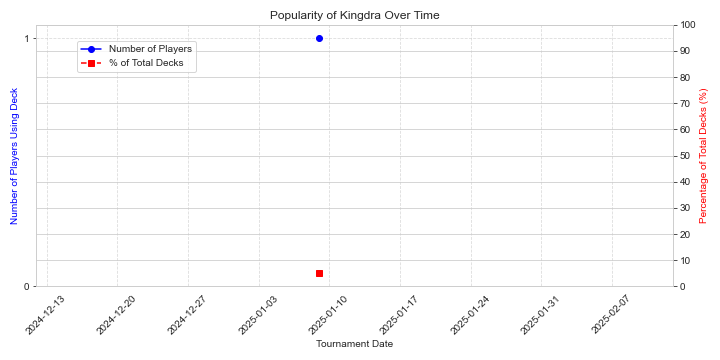
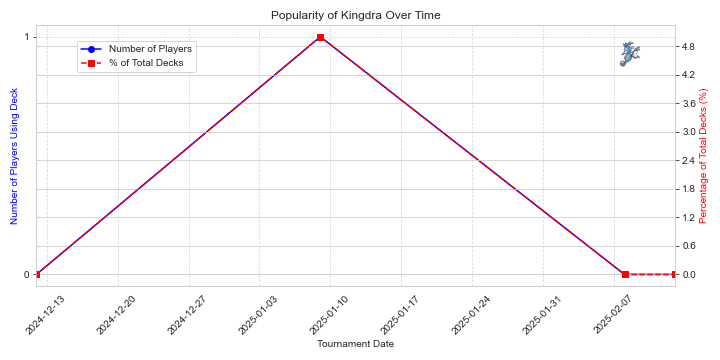
flask app?

diff --git a/templates/decklist.html b/templates/decklist.html
@@ -1,0 +1,77 @@
+<!DOCTYPE html>
+<html lang="en">
+<head>
+    <meta charset="UTF-8">
+    <meta name="viewport" content="width=device-width, initial-scale=1.0">
+    <title>{{ player }}'s Decklist - {{ date }}</title>
+    <style>
+        body {
+            font-family: Arial, sans-serif;
+            margin: 20px;
+            padding: 0;
+            background-color: #f4f4f4;
+            text-align: center;
+        }
+        h1 {
+            color: #333;
+        }
+        table {
+            width: 80%;
+            margin: 20px auto;
+            border-collapse: collapse;
+            background: white;
+            box-shadow: 0px 4px 8px rgba(0, 0, 0, 0.2);
+        }
+        th, td {
+            padding: 10px;
+            border: 1px solid #ddd;
+            text-align: center;
+        }
+        th {
+            background: #333;
+            color: white;
+        }
+        img {
+            max-width: 100px;
+            height: auto;
+            transition: transform 0.3s ease-in-out;
+        }
+        img:hover {
+            transform: scale(2);
+            z-index: 10;
+        }
+    </style>
+</head>
+<body>
+
+    <h1>{{ player }}'s Decklist - {{ date }}</h1>
+
+    <table>
+        <thead>
+            <tr>
+                <th>Card Name</th>
+                <th>Quantity</th>
+                <th>Card Type</th>
+                <th>Set Code</th>
+                <th>Set Number</th>
+                <th>Image</th>
+            </tr>
+        </thead>
+        <tbody>
+            {% for row in decklist.itertuples() %}
+            <tr>
+                <td>{{ row[1] }}</td>  <!-- Card Name -->
+                <td>{{ row[2] }}</td>  <!-- Quantity -->
+                <td>{{ row[3] }}</td>  <!-- Card Type -->
+                <td>{{ row[4] }}</td>  <!-- Set Code -->
+                <td>{{ row[5] }}</td>  <!-- Set Number -->
+                <td>
+                    <img src="{{ row[6] }}" alt="Card Image">
+                </td>
+            </tr>
+            {% endfor %}  <!-- ✅ Ensure this is present! -->
+        </tbody>
+    </table>
+
+</body>
+</html>

diff --git a/templates/tournament.html b/templates/tournament.html
@@ -1,0 +1,16 @@
+<!-- templates/tournament.html -->
+<!DOCTYPE html>
+<html>
+<head>
+    <title>{{ date }} Tournament</title>
+</head>
+<body>
+    <h1>Players in {{ date }} Tournament</h1>
+    <ul>
+        {% for player in players %}
+        <li><a href="/tournament/{{ date }}/{{ player }}">{{ player }}</a></li>
+        {% endfor %}
+    </ul>
+    <a href="/">Back to tournaments</a>
+</body>
+</html>

diff --git a/templates/index.html b/templates/index.html
@@ -1,0 +1,16 @@
+<!-- templates/index.html -->
+<!DOCTYPE html>
+<html>
+<head>
+    <title>Tournaments</title>
+</head>
+<body>
+    <h1>Available Tournaments</h1>
+    <ul>
+        {% for tournament in tournaments %}
+        <li><a href="/tournament/{{ tournament }}">{{ tournament }}</a></li>
+        {% endfor %}
+    </ul>
+</body>
+</html>
+

diff --git a/JG_analysis.py b/JG_analysis.py
@@ -11,9 +11,55 @@ import matplotlib.pyplot as plt
 import seaborn as sns
 import pandas as pd
 import matplotlib.dates as mdates
+import pokebase as pb
+import requests
+from PIL import Image
+from io import BytesIO
+import matplotlib.ticker as mticker
+import pokemontcgsdk
+from pokemontcgsdk import RestClient
+from pokemontcgsdk import Card
+from pokemontcgsdk import Set
+RestClient.configure('3c23674e-0a0e-4a9d-8191-43fcbd09f2f4')
+
+#%%
+
+
+
+
+def make_transparent(image):
+    """Convert black background to transparent."""
+    image = image.convert("RGBA")  # Ensure it's RGBA format
+    data = image.getdata()
+
+    new_data = []
+    for item in data:
+        # If pixel is black (or close to black), make it transparent
+        if item[:3] == (0, 0, 0):
+            new_data.append((0, 0, 0, 0))  # Fully transparent
+        else:
+            new_data.append(item)  # Keep original color
+
+    image.putdata(new_data)
+    return image
+
+
+def get_pokemon_icon(name):
+    pokemon = pb.pokemon(name.lower())
+    return pokemon.sprites.front_default  # Default front sprite URL
+
 
 
 #%% Load Results
+deck_alternatives = {
+    "lost box": "comfey",
+    "pidgeot control": "pidgeot",
+    "terapazard": "terapagos",
+    "united wings": "flamigo",
+    "dragathorns": "dragapult",
+}
+
+
 current_directory = os.getcwd()
 results_directory = os.path.join(current_directory, 'results')
 
@@ -169,8 +215,8 @@ else:
     
     
     
-#%% decklists over time
-# Count number of times each deck type was played at each tournament
+#%%
+
 # Ensure 'Date' is in datetime format
 complete_standings['Date'] = pd.to_datetime(complete_standings['Date'])
 
@@ -178,18 +224,33 @@ complete_standings['Date'] = pd.to_datetime(complete_standings['Date'])
 min_date = complete_standings['Date'].min()
 max_date = complete_standings['Date'].max()
 
+# Generate all unique deck names and tournament dates
+all_decks = complete_standings['Deck'].unique()
+all_dates = complete_standings['Date'].unique()
+
+# Create a DataFrame with all combinations of dates and decks
+all_combinations = pd.MultiIndex.from_product([all_dates, all_decks], names=['Date', 'Deck']).to_frame(index=False)
+
 # Count number of times each deck type was played at each tournament
 deck_trends = complete_standings.groupby(['Date', 'Deck']).size().reset_index(name='Count')
 
+# Merge with the full range of dates and decks, filling missing values with 0
+deck_trends = all_combinations.merge(deck_trends, on=['Date', 'Deck'], how='left').fillna({'Count': 0})
+
+# Ensure 'Count' is in integer format
+deck_trends['Count'] = deck_trends['Count'].astype(int)
+
+# Calculate total decks per tournament
 total_decks_per_tournament = complete_standings.groupby('Date').size().reset_index(name='Total Decks')
-deck_trends = deck_trends.merge(total_decks_per_tournament, on='Date', how='left')
+deck_trends = deck_trends.merge(total_decks_per_tournament, on='Date', how='left').fillna({'Total Decks': 0})
 deck_trends['Percentage'] = (deck_trends['Count'] / deck_trends['Total Decks']) * 100
+deck_trends['Percentage'].fillna(0, inplace=True)
 
 # Set plot style
 sns.set_style("whitegrid")
 
 # Loop through each deck and create a separate graph
-for deck in deck_trends['Deck'].unique():
+for deck in all_decks:
     deck_data = deck_trends[deck_trends['Deck'] == deck]
     
     fig, ax1 = plt.subplots(figsize=(10, 5))
@@ -202,13 +263,14 @@ for deck in deck_trends['Deck'].unique():
     ax1.set_ylabel("Number of Players Using Deck", color='b')
     ax2.set_ylabel("Percentage of Total Decks (%)", color='r')
     
-    ax1.set_yticks(range(0, max(deck_data['Count']) + 1))  # Ensure only integer values on primary y-axis
-    ax2.set_yticks(range(0, 101, 10))  # Ensure percentage scale from 0 to 100 with steps of 10
-    
-    ax1.set_xlim(min_date, max_date)  # Set x-axis limits to dataset-wide min and max dates
-    ax1.xaxis.set_major_locator(mdates.DayLocator(interval=7))  # Ensure uniform x-axis grid lines every 7 days
+    ax1.set_xlim(min_date, max_date)
+    ax1.xaxis.set_major_locator(mdates.DayLocator(interval=7))
     ax1.xaxis.set_major_formatter(mdates.DateFormatter('%Y-%m-%d'))
     ax1.tick_params(axis='x', rotation=45)
+    
+    # Ensure only integer values on primary y-axis
+    ax1.yaxis.set_major_locator(mticker.MaxNLocator(integer=True))
+    ax2.yaxis.set_major_locator(mticker.MaxNLocator(nbins=10))  # Allow slight difference in scaling
     
     plt.title(f"Popularity of {deck} Over Time")
     ax1.grid(True, linestyle='--', alpha=0.7)
@@ -218,9 +280,32 @@ for deck in deck_trends['Deck'].unique():
     graph_directory = os.path.join(current_directory, "graph")
     
     if not os.path.exists(graph_directory):
-        print("Graph directory does not exist. Creating it now...")
-        os.makedirs(graph_directory, exist_ok=True)  # Create if it doesn’t exist
+        os.makedirs(graph_directory, exist_ok=True)
     
-    # Save each plot to a file
-    plt.savefig(os.path.join(current_directory, 'graph',f"deck_popularity_{deck.replace(' ', '_')}.png"))
+    # Try fetching deck icon
+    icon_url = None
+    try:
+        icon_url = get_pokemon_icon(deck.lower().replace(' ', '-'))
+        response = requests.get(icon_url)
+        response.raise_for_status()
+    except Exception:
+        if deck.lower() in deck_alternatives:
+            try:
+                alternative_pokemon = deck_alternatives[deck.lower()]
+                icon_url = get_pokemon_icon(alternative_pokemon)
+                response = requests.get(icon_url)
+                response.raise_for_status()
+            except Exception:
+                icon_url = None
+        else:
+            icon_url = None
+    
+    if icon_url:
+        icon = Image.open(BytesIO(response.content))
+        icon = make_transparent(icon)
+        newax = fig.add_axes([0.85, 0.8, 0.1, 0.1], anchor='NW', zorder=1)
+        newax.imshow(icon)
+        newax.axis("off")
+    
+    plt.savefig(os.path.join(graph_directory, f"deck_popularity_{deck.replace(' ', '_')}.png"))
     plt.show()

diff --git a/app.py b/app.py
@@ -1,0 +1,112 @@
+# -*- coding: utf-8 -*-
+"""
+
+
+@author: jemma
+"""
+
+from flask import Flask, render_template, send_file
+import os
+import pandas as pd
+import re
+import logging
+from pokemontcgsdk import RestClient
+from pokemontcgsdk import Card
+import sys
+from concurrent.futures import ThreadPoolExecutor
+RestClient.configure('3c23674e-0a0e-4a9d-8191-43fcbd09f2f4')
+
+
+
+app = Flask(__name__)
+current_directory = os.getcwd()
+logging.basicConfig(level=logging.DEBUG)
+sys.stdout = sys.__stdout__  # Ensures direct console printing
+
+@app.route('/')
+def index():
+    results_path = os.path.join(current_directory, 'results')
+
+    # Regular expression pattern for YYYY-MM-DD format
+    date_pattern = re.compile(r"^\d{4}-\d{2}-\d{2}$")
+    
+    # Get sorted list of directories/files
+    tournaments = sorted(      
+    d for d in os.listdir(results_path)
+        if date_pattern.match(d) and os.path.isdir(os.path.join(results_path, d))
+        )
+    
+    return render_template('index.html', tournaments=tournaments)
+
+@app.route('/tournament/<date>')
+def tournament(date):
+    decklist_dir = os.path.join(current_directory, 'results', date, 'decklists')
+    players = [f[:-4] for f in os.listdir(decklist_dir) if f.endswith('.csv')]
+    return render_template('tournament.html', date=date, players=players)
+
+
+def fetch_card_image(index, row):
+    """Fetches the image URL for a given card row."""
+    ptcgo_code = row['Set Code']
+    card_number = row['Set Number']
+    card_name = row["Card Name"].replace(' - ACESPEC', '')
+
+    print(f"Details: {card_name}, {ptcgo_code} - {card_number}", flush=True)
+
+    try:
+        cards = Card.where(q=f'set.ptcgoCode:{ptcgo_code} number:{int(card_number)}')
+
+        if cards:
+            return index, cards[0].images.small  # Return the index and URL
+
+        print(f"Querying: name: {card_name}", flush=True)
+
+        # Search by name for common and uncommon rarities
+        common_cards = Card.where(q=f'name:"{card_name}" rarity:"Common"', orderBy='-set.releaseDate')
+        uncommon_cards = Card.where(q=f'name:"{card_name}" rarity:"Uncommon"', orderBy='-set.releaseDate')
+        if len(common_cards)==0 and len(uncommon_cards)==0:
+            rare_cards = Card.where(q=f'name:"{card_name}" rarity:"Rare"', orderBy='-set.releaseDate')
+            all_cards = list(common_cards) + list(uncommon_cards) + list(rare_cards)
+        else:
+            all_cards = list(common_cards) + list(uncommon_cards)
+        all_cards.sort(key=lambda card: card.set.releaseDate, reverse=True)
+
+        if all_cards:
+            return index, all_cards[0].images.small  # Return first result
+
+        print(f"No results found for: {card_name}")
+    except Exception as e:
+        print(f"Error fetching card image for {card_name}: {e}")
+
+    # Default image if no match found
+    return index, "https://media.istockphoto.com/id/1443562748/photo/cute-ginger-cat.jpg?s=612x612&w=0&k=20&c=vvM97wWz-hMj7DLzfpYRmY2VswTqcFEKkC437hxm3Cg="
+
+
+def process_decklist(df):
+    """Processes the decklist concurrently to fetch images."""
+    df['Image URL'] = None  # Default column for image URLs
+
+    with ThreadPoolExecutor(max_workers=10) as executor:  # Adjust worker count as needed
+        futures = {executor.submit(fetch_card_image, index, row): index for index, row in df.iterrows()}
+
+        for future in futures:
+            index, image_url = future.result()  # Retrieve results
+            df.at[index, 'Image URL'] = image_url  # Update DataFrame
+
+    return df
+
+
+@app.route('/tournament/<date>/<player>')
+def player_deck(date, player):
+    decklist_path = os.path.join(current_directory, 'results', date, 'decklists', f'{player}.csv')
+    df = pd.read_csv(decklist_path, header=None)
+    df.columns = ['Card Name', 'Quantity', 'Card Type', 'Set Code', 'Set Number']
+    df['Set Number'] = df['Set Number'].fillna(0).astype(int)
+
+    df = process_decklist(df)  # Process images concurrently
+
+    print(df)
+    return render_template('decklist.html', date=date, player=player, decklist=df)
+
+if __name__ == '__main__':
+    app.run(debug=True)
